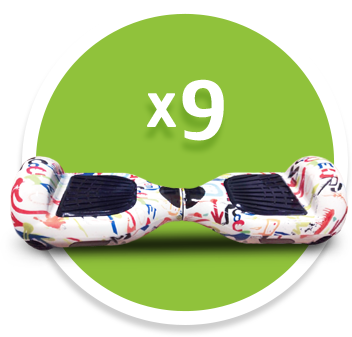
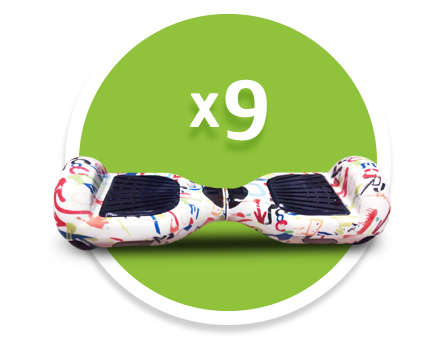
Correct Prizes Section

diff --git a/sass/blocks/prizes.scss b/sass/blocks/prizes.scss
@@ -8,7 +8,7 @@
     background-size: cover;
     background-repeat: no-repeat;
     background-position: center center, top center;
-    //background-attachment: fixed;
+    background-attachment: fixed;
   }
 
   &__title {
@@ -20,10 +20,52 @@
     text-shadow: -2px 6px 5px rgba($dark-gray, 0.58);
   }
 
-  &__item--main {
-    display: table;
-    width: 100%;
-    //margin-bottom: 60px;
+  &__picture {
+    position: relative;
+    display: block;
+    margin-bottom: 40px;
+
+    &.prizes__picture--main {
+      padding-right: 40px;
+    }
+
+    img {
+      transform: scale(1);
+      transition: transform 1s ease-out;
+    }
+
+    &:hover {
+      img {
+        transform: scale(1.15);
+        transition: transform 1s ease-out;
+      }
+    }
+  }
+
+  &__picture--main {
+    display: table-cell;
+    vertical-align: top;
+    text-align: center;
+  }
+
+  &__block {
+    display: flex;
+    justify-content: space-between;
+    text-align: center;
+    margin-bottom: 90px;
+  }
+
+  &__item {
+    display: flex;
+    flex-direction: column;
+    justify-content: space-between;
+    flex-basis: 33.3%;
+
+    &.prizes__item--main {
+      display: table;
+      width: 100%;
+      margin-bottom: 60px;
+    }
   }
 
   &__description--main {
@@ -34,62 +76,6 @@
 
     p {
       margin: 0;
-    }
-  }
-
-
-  &__picture {
-    position: relative;
-    display: block;
-    margin-bottom: 40px;
-
-    &.prizes__picture--main {
-      img {
-        height: 430px;
-      }
-    }
-
-    img {
-      transform: scale(0.9);
-      transition: transform 1s ease-out;
-      height: 337px;
-      width: auto;
-
-      @include respond(tablet-large) {
-        height: 180px;
-      }
-
-      @media only screen and (max-width: $bp-xlarge) {
-        height: 340px;
-      }
-    }
-
-    &:hover {
-      img {
-        transform: scale(1);
-        transition: transform 1s ease-out;
-      }
-    }
-  }
-
-  &__picture--main {
-    display: table-cell;
-    vertical-align: top;
-    text-align: center;
-    height: 460px;
-  }
-
-  &__block {
-    display: flex;
-    justify-content: space-between;
-    text-align: center;
-    margin-bottom: 90px;
-
-    &__item {
-      display: flex;
-      flex-direction: column;
-      justify-content: space-between;
-      flex-basis: 20%;
     }
   }
 

diff --git a/sass/blocks/btn.scss b/sass/blocks/btn.scss
@@ -27,9 +27,10 @@
     padding: 10px 34px;
   }
 
-  &--prize {
-    min-width: 89%;
+  &.btn--prize {
     padding-top: 5px;
+    margin-left: 20px;
+    margin-right: 20px;
   }
 
   &--registration {

diff --git a/sass/blocks/winners.scss b/sass/blocks/winners.scss
@@ -1,4 +1,4 @@
-.winers {
+.winners {
   color: $light-color;
 
   &__inner {
